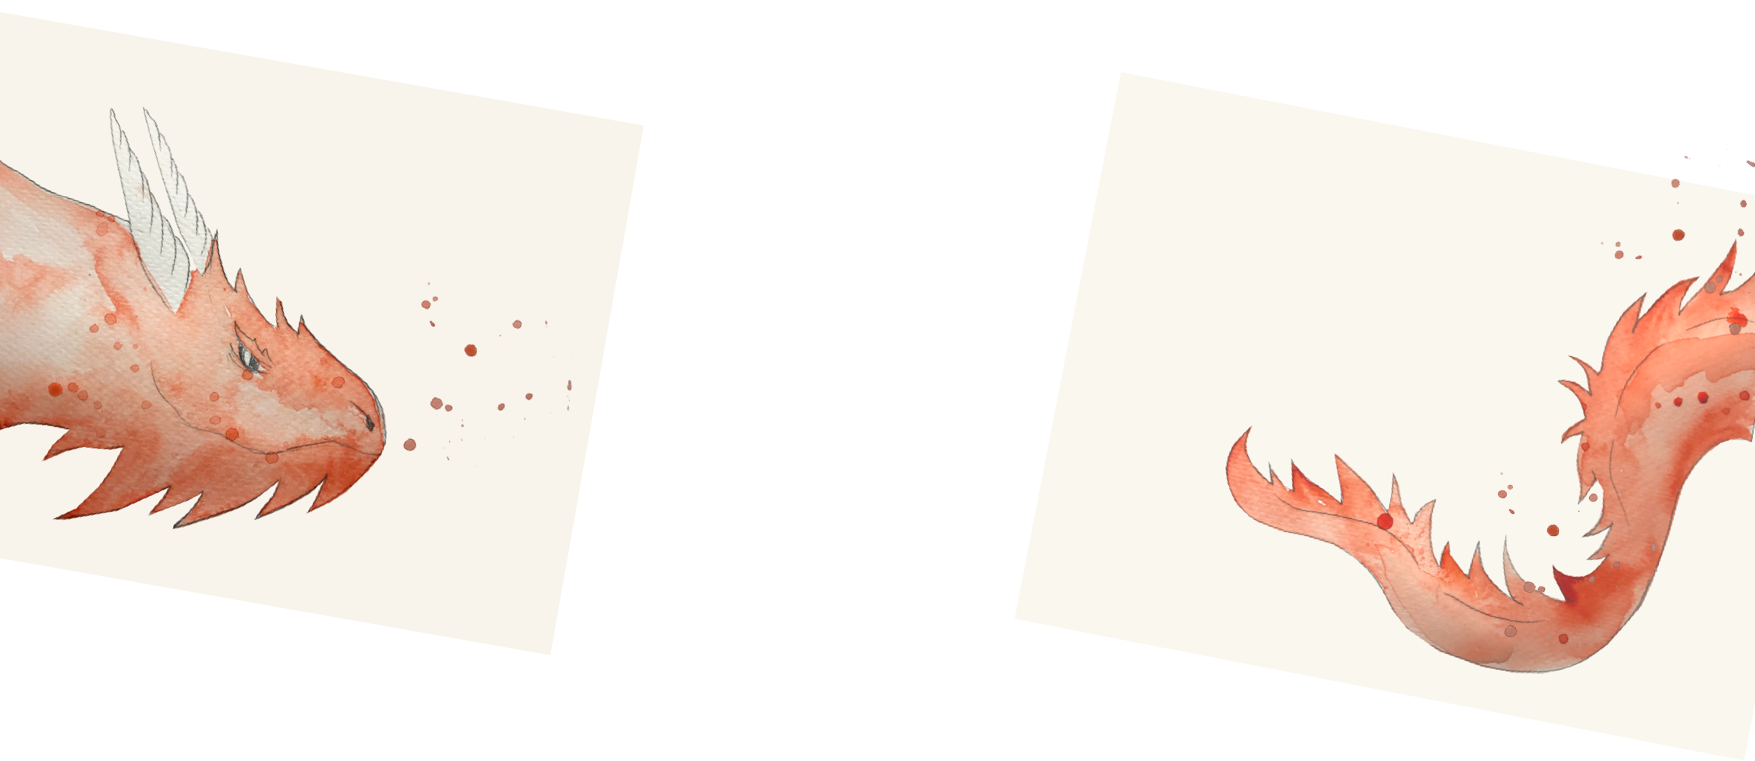
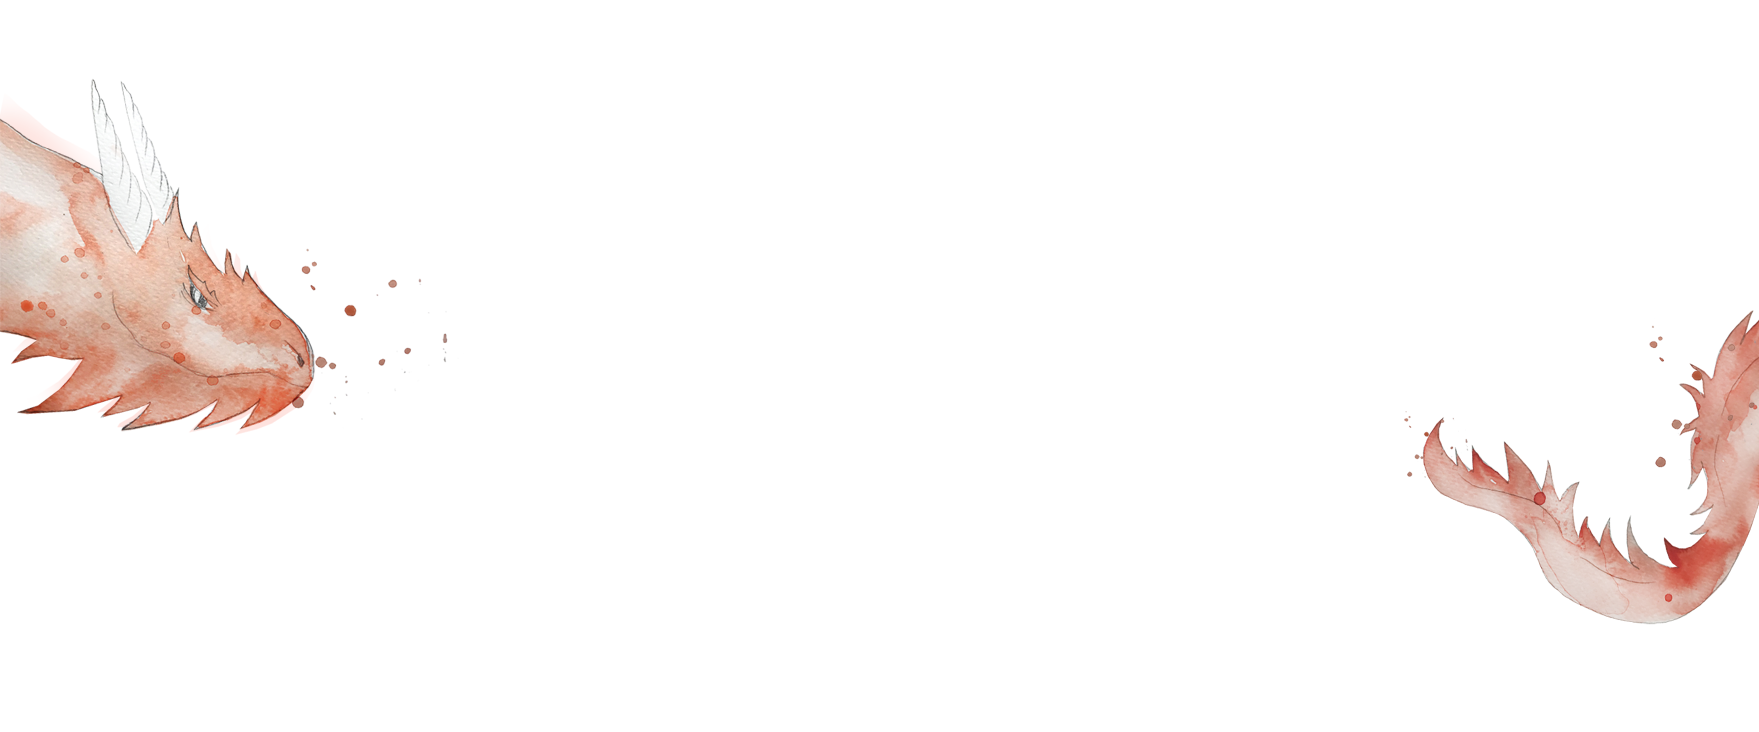
added image

diff --git a/css/style.css b/css/style.css
@@ -234,9 +234,9 @@ Intro
   background-color: #F7F4EC;
   background-size: cover;
   z-index: 2;
-  /* background-image: url(../img/dragon_bg.png) no-repeat center center;
+   background-image: url(../img/dragon_bg.png) no-repeat center center;
   background: url(../img/intro-background.jpg) no-repeat center center;
-  background: url(../img/dragon_bg.png) no-repeat center center; */
+  background: url(../img/dragon_bg.png) no-repeat center center; 
 
 }
 #cd-intro #cd-intro-tagline {
